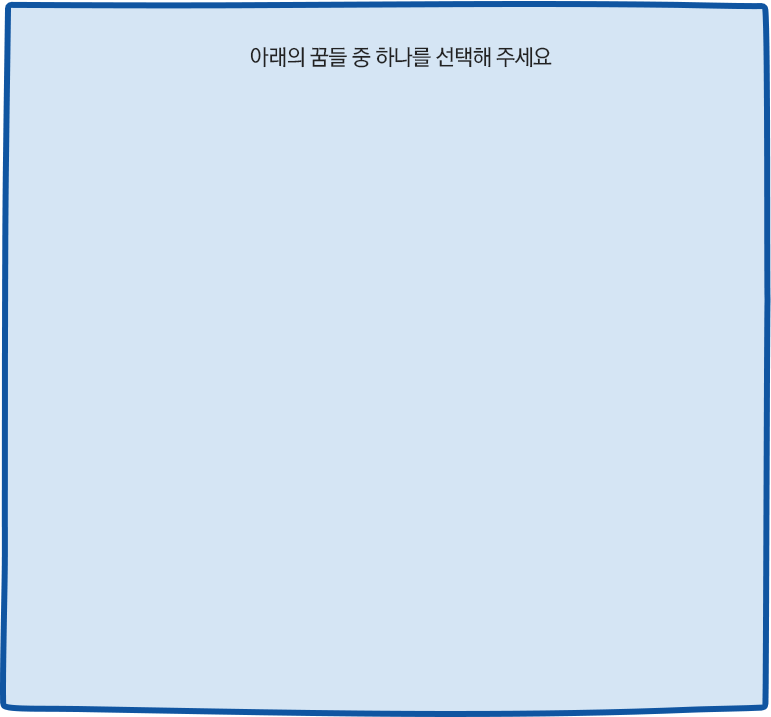
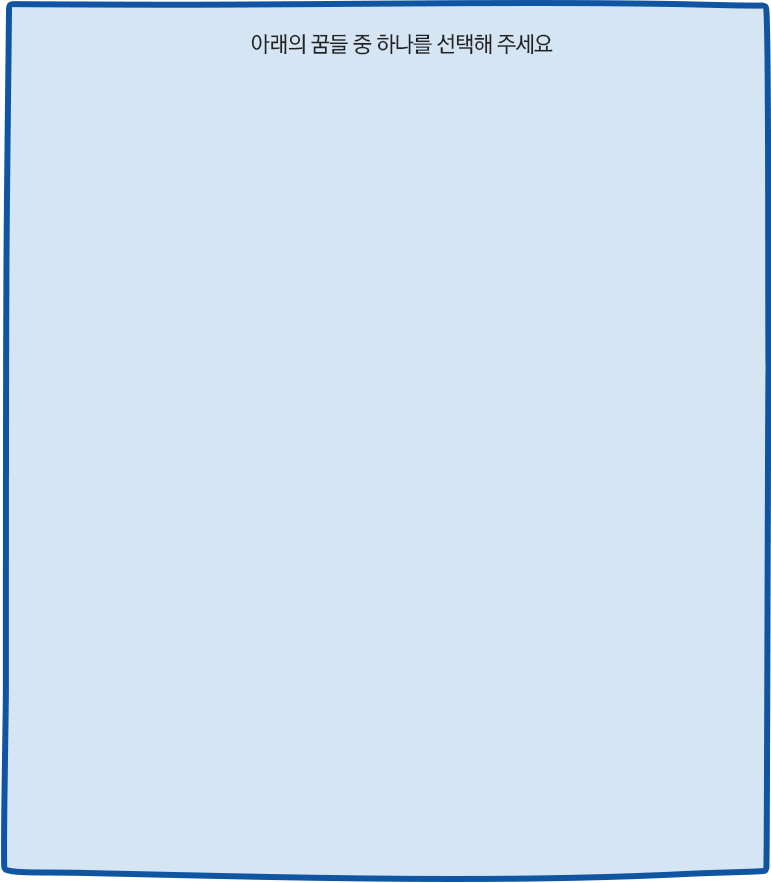
직업 추가

Changed region(s): [[0.0, 0.0, 1.0, 1.0], [0.0, 0.583, 0.0311, 0.9512]]

diff --git a/js/main.js b/js/main.js
@@ -3,8 +3,8 @@ function open_pop(param)
 	if (param == "job_popup")
 	{
 		var pop_w	= "805px";
-		var pop_h	= "759px";
-		var pop_oh	= "717px";
+		var pop_h	= "925px";
+		var pop_oh	= "883px";
 		var transition_pop	= "fade";
 	}else if (param == "notice_popup"){
 		var pop_w	= "806px";

diff --git a/PC/css/style_yang.css b/PC/css/style_yang.css
@@ -1174,7 +1174,7 @@ body.main{
 }
 .p_select_job{
 	width:763px;
-	height:717px;
+	height:883px;
 	background: url(../images/bg_job.png) no-repeat top center;
 }
 .p_howto_share{

diff --git a/MOBILE/popup_div.php b/MOBILE/popup_div.php
@@ -44,8 +44,8 @@
         <div class="text"><a href="#" onclick="checked_dream('minister','','목사');return false;">목사</a></div>
       </div>
       <div class="one_job">
-        <div class="img"><a href="#" onclick="checked_dream('model','','모델');return false;"><img src="images/popup/job_11.png" /></a></div>
-        <div class="text"><a href="#" onclick="checked_dream('model','','모델');return false;">모델</a></div>
+        <div class="img"><a href="#" onclick="checked_dream('musician','','뮤지션');return false;"><img src="images/popup/job_18.png" /></a></div>
+        <div class="text"><a href="#" onclick="checked_dream('musician','','뮤지션');return false;">뮤지션</a></div>
       </div>
       <div class="one_job">
         <div class="img"><a href="#" onclick="checked_dream('lawyer','','변호사');return false;"><img src="images/popup/job_12.png" /></a></div>
@@ -71,6 +71,19 @@
         <div class="img"><a href="#" onclick="checked_dream('sportsman','','운동선수');return false;"><img src="images/popup/job_17.png" /></a></div>
         <div class="text"><a href="#" onclick="checked_dream('sportsman','','운동선수');return false;">운동선수</a></div>
       </div>
+      <div class="one_job">
+        <div class="img"><a href="#" onclick="checked_dream('comedian','','코미디언');return false;"><img src="images/popup/job_19.png" /></a></div>
+        <div class="text"><a href="#" onclick="checked_dream('comedian','','코미디언');return false;">코미디언</a></div>
+      </div>
+      <div class="one_job">
+        <div class="img"><a href="#" onclick="checked_dream('writer','','작가');return false;"><img src="images/popup/job_20.png" /></a></div>
+        <div class="text"><a href="#" onclick="checked_dream('writer','','작가');return false;">작가</a></div>
+      </div>
+      <div class="one_job">
+        <div class="img"><a href="#" onclick="checked_dream('painter','','화가');return false;"><img src="images/popup/job_21.png" /></a></div>
+        <div class="text"><a href="#" onclick="checked_dream('painter','','화가');return false;">화가</a></div>
+      </div>
+
   </div>
 </div>
   <!--직업선택팝업--> 

diff --git a/PC/popup_div.php b/PC/popup_div.php
@@ -44,8 +44,8 @@
         <div class="text"><a href="#" onclick="checked_dream('minister','','목사');return false;">목사</a></div>
       </div>
       <div class="one_job">
-        <div class="img"><a href="#" onclick="checked_dream('model','','모델');return false;"><img src="images/job_11.png" /></a></div>
-        <div class="text"><a href="#" onclick="checked_dream('model','','모델');return false;">모델</a></div>
+        <div class="img"><a href="#" onclick="checked_dream('musician','','뮤지션');return false;"><img src="images/job_18.png" /></a></div>
+        <div class="text"><a href="#" onclick="checked_dream('musician','','뮤지션');return false;">뮤지션</a></div>
       </div>
       <div class="one_job">
         <div class="img"><a href="#" onclick="checked_dream('lawyer','','변호사');return false;"><img src="images/job_12.png" /></a></div>
@@ -70,6 +70,18 @@
       <div class="one_job">
         <div class="img"><a href="#" onclick="checked_dream('sportsman','','운동선수');return false;"><img src="images/job_17.png" /></a></div>
         <div class="text"><a href="#" onclick="checked_dream('sportsman','','운동선수');return false;">운동선수</a></div>
+      </div>
+      <div class="one_job">
+        <div class="img"><a href="#" onclick="checked_dream('comedian','','코미디언');return false;"><img src="images/job_19.png" /></a></div>
+        <div class="text"><a href="#" onclick="checked_dream('comedian','','코미디언');return false;">코미디언</a></div>
+      </div>
+      <div class="one_job">
+        <div class="img"><a href="#" onclick="checked_dream('writer','','작가');return false;"><img src="images/job_20.png" /></a></div>
+        <div class="text"><a href="#" onclick="checked_dream('writer','','작가');return false;">작가</a></div>
+      </div>
+      <div class="one_job">
+        <div class="img"><a href="#" onclick="checked_dream('painter','','화가');return false;"><img src="images/job_21.png" /></a></div>
+        <div class="text"><a href="#" onclick="checked_dream('painter','','화가');return false;">화가</a></div>
       </div>
     </div>
   </div> 

diff --git a/include/function.php b/include/function.php
@@ -168,6 +168,18 @@
 		}else if ($engJob == "cook"){
 			// 요리사
 			$convert_job	= "요리사";
+		}else if ($engJob == "musician"){
+			// 뮤지션
+			$convert_job	= "뮤지션";
+		}else if ($engJob == "comedian"){
+			// 코메디언
+			$convert_job	= "코메디언";
+		}else if ($engJob == "writer"){
+			// 작가
+			$convert_job	= "작가";
+		}else if ($engJob == "painter"){
+			// 화가
+			$convert_job	= "화가";
 		}
 	return $convert_job;
 	}
